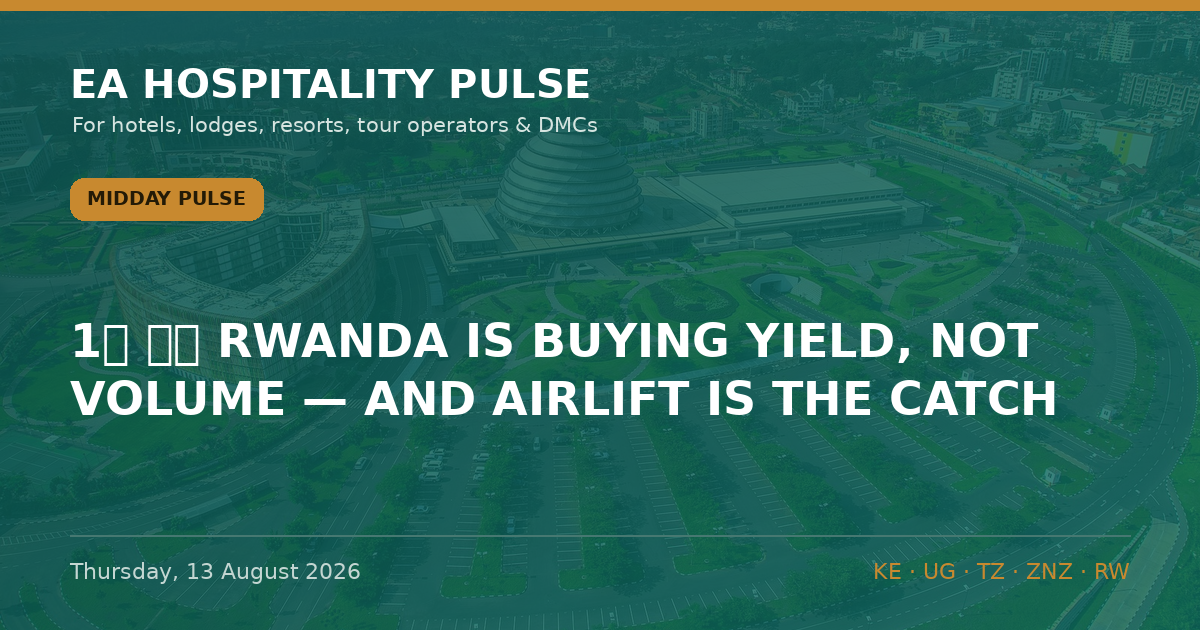
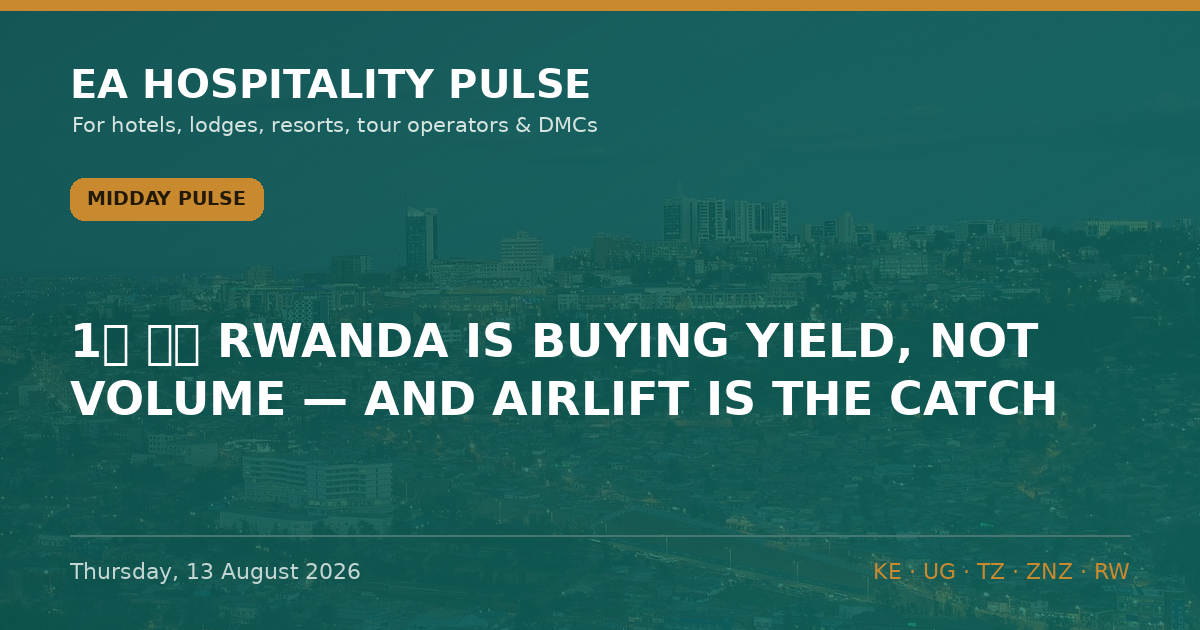
Auto-build: 2026-08-13 08:50 UTC

diff --git a/editions/pulse-2026-08-13-midday.html b/editions/pulse-2026-08-13-midday.html
@@ -73,7 +73,7 @@ footer.s{text-align:center;color:var(--muted);font-family:Helvetica Neue,Arial,s
 <div class="wrap">
   <article class="art">
     <img class="hero" src="../og/pulse-2026-08-13-midday-clean.png" alt="Midday Pulse — Thursday, 13 August 2026" loading="eager">
-    
+    <p class="hcredit">Photo: Adrien K · <a href="https://commons.wikimedia.org/wiki/File:Kigali2018Cropped.jpg" target="_blank" rel="noopener nofollow">Wikimedia Commons</a> · <a href="https://creativecommons.org/licenses/by/2.0" target="_blank" rel="noopener nofollow">CC BY 2.0</a></p>
     <a class="nav" href="../index.html#archive">← All editions</a>
     <div class="kicker"><span class="badge">Midday Pulse</span><time datetime="2026-08-13">Thursday, 13 August 2026</time></div>
     <h1>1⃣ 🇷🇼 RWANDA IS BUYING YIELD, NOT VOLUME — AND AIRLIFT IS THE CATCH.</h1>

diff --git a/index.html b/index.html
@@ -352,7 +352,7 @@
   .pl-brand{font-family:'Helvetica Neue',Arial,sans-serif;font-size:12px;font-weight:600;color:var(--muted);background:var(--sand-2);padding:2px 8px;border-radius:20px;margin-left:4px;white-space:nowrap}
   .pl-detail{font-size:14px;color:var(--muted);margin:6px 0 8px;line-height:1.55}
 </style>
-<!--BUILD_STAMP:20260813-1148--></head>
+<!--BUILD_STAMP:20260813-0850--></head>
 <body>
 <header class="site">
   <div class="wrap topbar">

diff --git a/data.js b/data.js
@@ -1861,4 +1861,4 @@ window.INSIGHTS = [
   "editionKey": "evening"
  }
 ];
-window.BUILT_AT = "2026-08-13 11:48";
+window.BUILT_AT = "2026-08-13 08:50";

diff --git a/ledger.js b/ledger.js
@@ -1,5 +1,5 @@
 window.LEDGER = {
- "updated": "2026-08-13 11:49",
+ "updated": "2026-08-13 08:50",
  "stats": {
   "total": 78,
   "open": 66,
